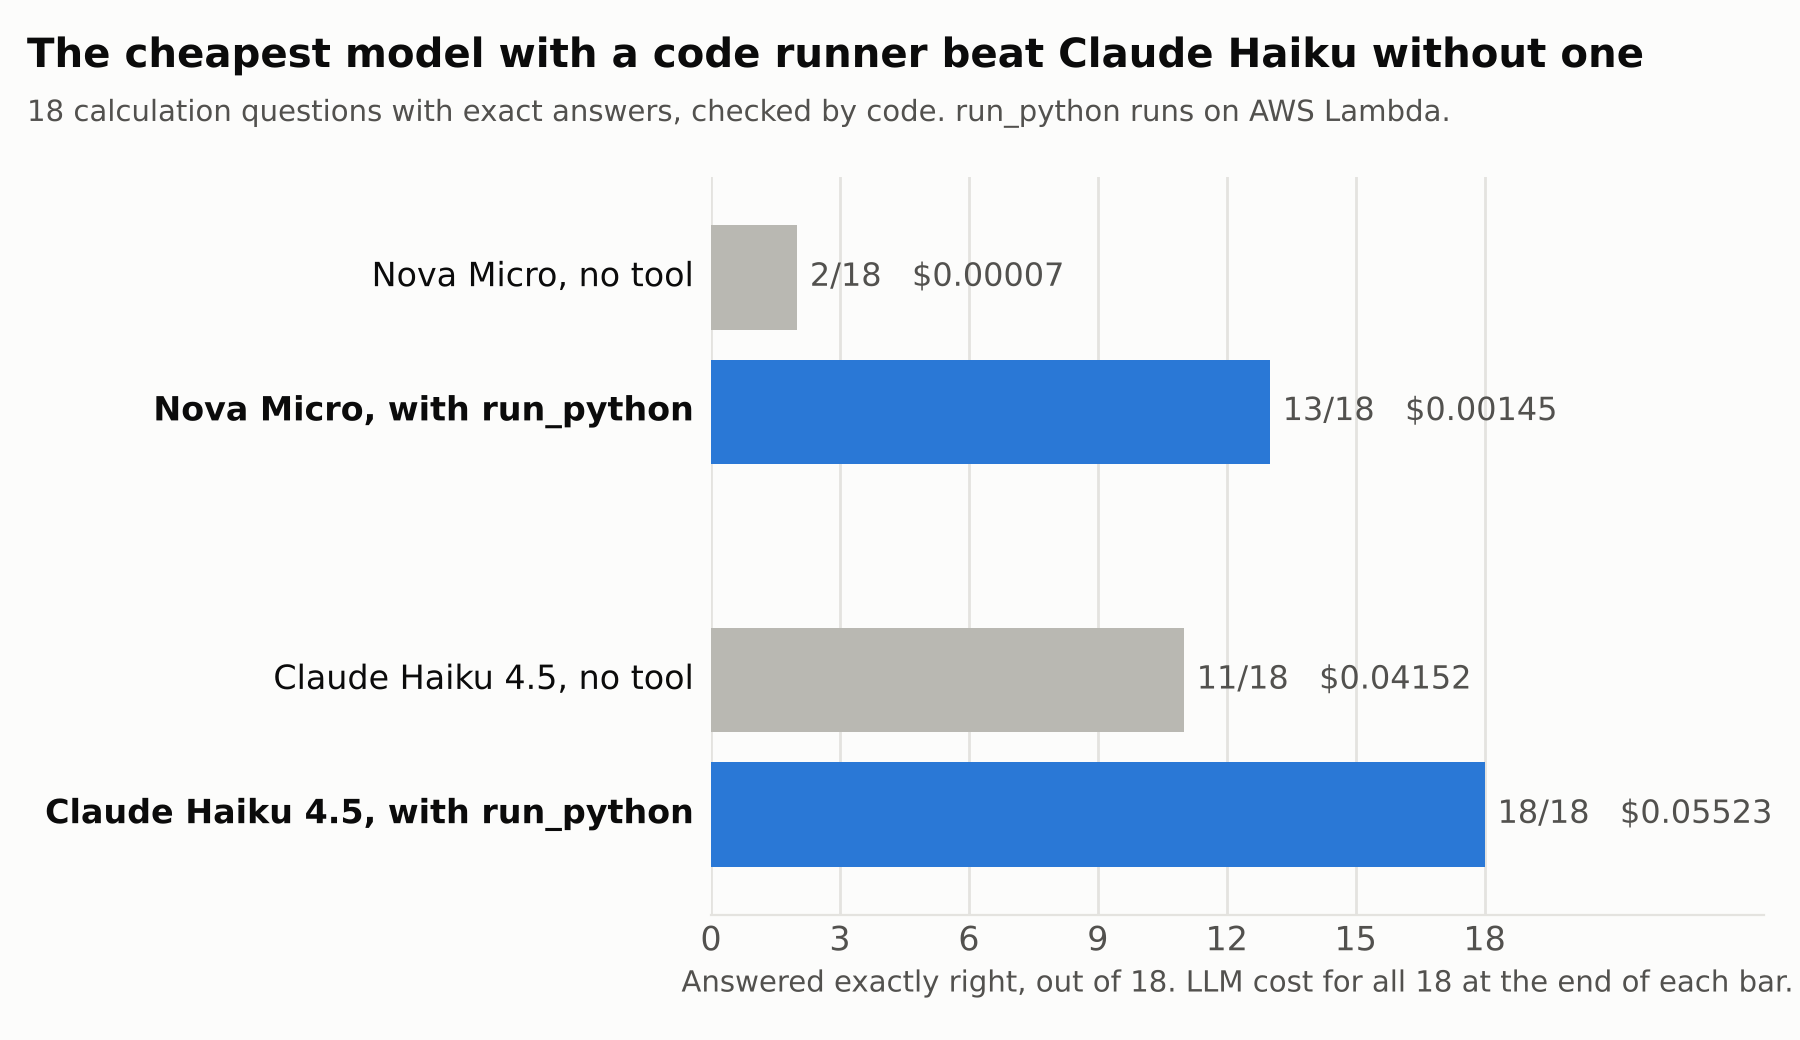
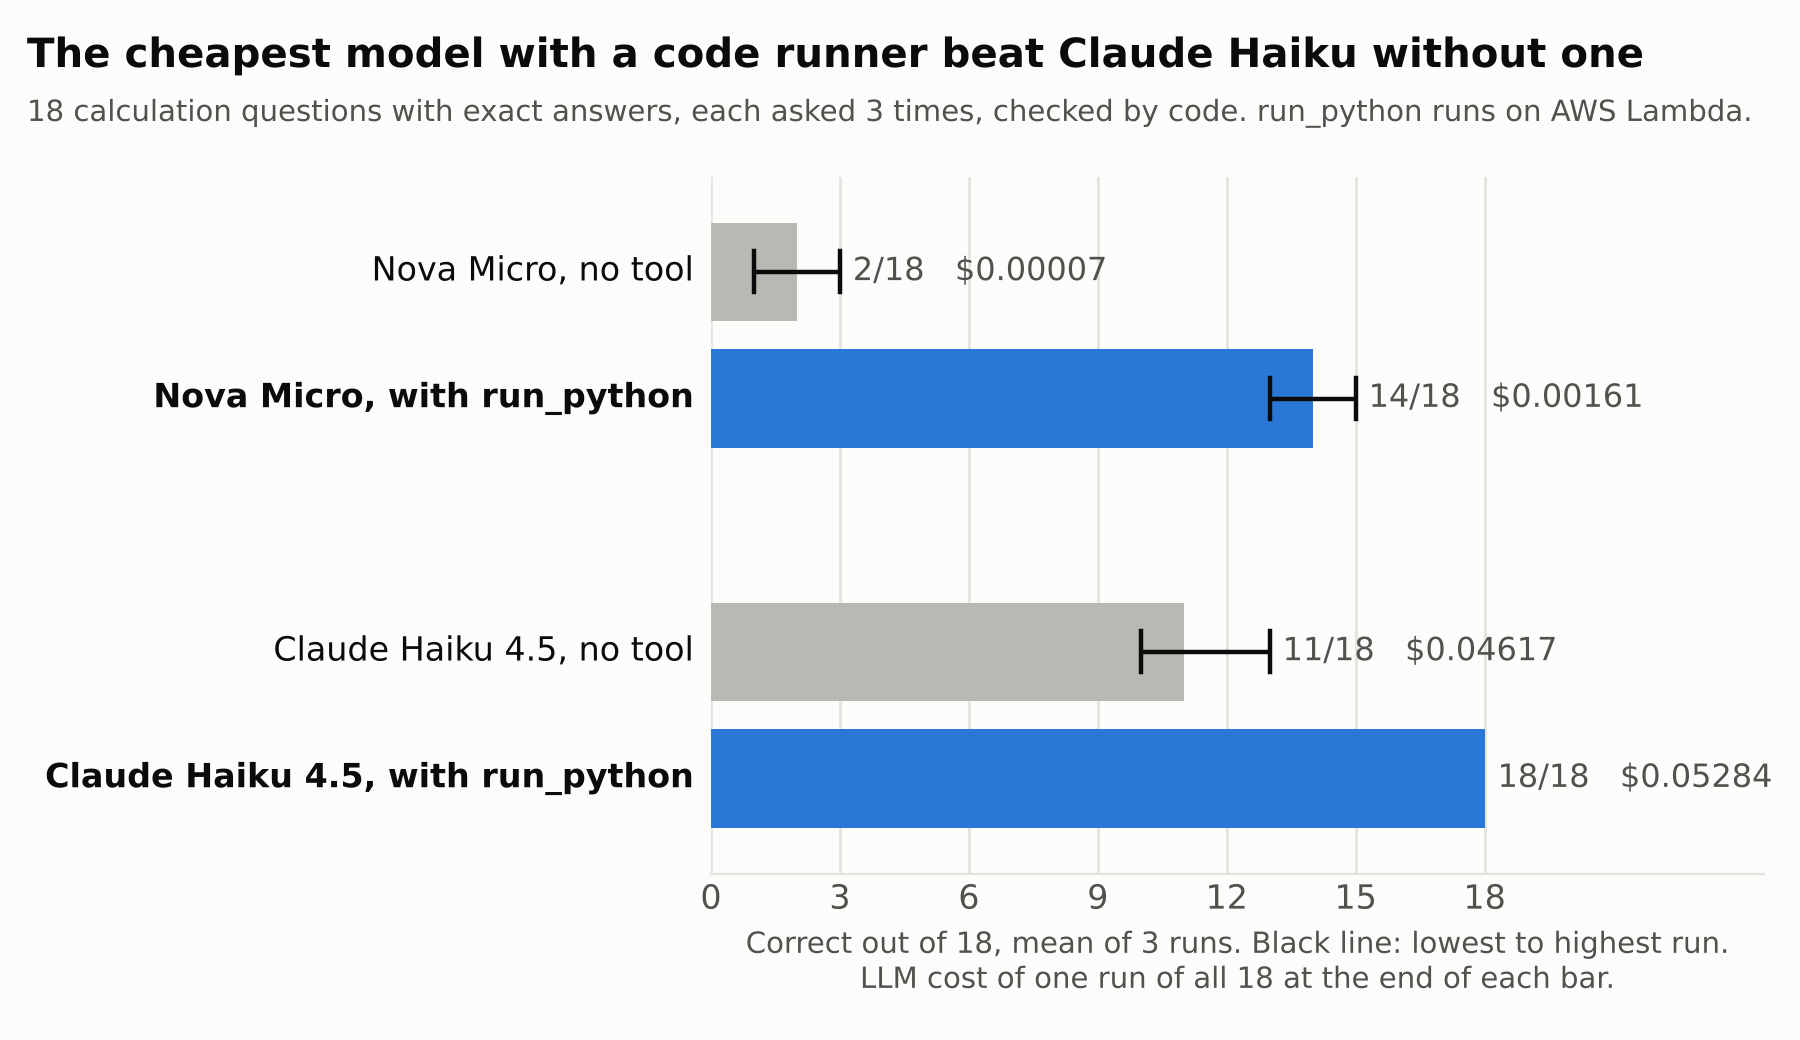
Cap tool calls per answer; README and chart with 3-run and full-agent results

diff --git a/escalator/tools.py b/escalator/tools.py
@@ -12,6 +12,7 @@ from collections.abc import Callable
 from typing import Any
 
 FUNCTION_NAME = os.environ.get("ESCALATOR_RUN_PYTHON_FUNCTION", "escalator-run-python")
+MAX_RUNS = int(os.environ.get("ESCALATOR_MAX_RUNS", "6"))  # tool calls allowed in one answer
 
 TOOL_HINT = (
     "You can run Python with the run_python tool. For any calculation, counting, date "
@@ -71,3 +72,26 @@ def make_run_python(invoke: Invoke = lambda_invoke, log: list | None = None):
         return format_result(result)
 
     return run_python
+
+
+class RunBudget:
+    """A Strands hook provider that caps tool calls in one agent turn.
+
+    Without it, a model stuck in a loop can keep calling the tool (one benchmark answer ran code
+    122 times). After `limit` calls, further calls are cancelled with a message telling the model
+    to answer from what it has.
+    """
+
+    def __init__(self, limit: int = MAX_RUNS):
+        self.limit, self.used = limit, 0
+
+    def register_hooks(self, registry, **kwargs) -> None:
+        from strands.hooks import BeforeToolCallEvent
+
+        registry.add_callback(BeforeToolCallEvent, self.check)
+
+    def check(self, event) -> None:
+        self.used += 1
+        if self.used > self.limit:
+            event.cancel_tool = (f"Limit of {self.limit} code runs reached. Answer now from the outputs "
+                                 "you already have.")

diff --git a/tests/test_tools.py b/tests/test_tools.py
@@ -11,7 +11,7 @@ from run_tool_bench import ANSWER_FORMAT, ESCALATOR, is_correct, parse_answer, s
 
 from escalator.agent import CLARIFY_PROMPT, SYSTEM_PROMPT, Escalator, Reply  # noqa: E402
 from escalator.patterns import AdequacyGate, TierRouter  # noqa: E402
-from escalator.tools import format_result, make_run_python  # noqa: E402
+from escalator.tools import RunBudget, format_result, make_run_python  # noqa: E402
 from test_escalator import FakeDecider  # noqa: E402
 
 # ----------------------------------------------------------------------------- Lambda handler
@@ -151,3 +151,17 @@ def test_answer_format_goes_to_answering_calls_only():
     call("m", SYSTEM_PROMPT, "q")
     call("m", CLARIFY_PROMPT, "q")
     assert seen == [f"{SYSTEM_PROMPT}\n\n{ANSWER_FORMAT}", CLARIFY_PROMPT]
+
+
+def test_run_budget_cancels_tool_calls_past_the_limit():
+    from types import SimpleNamespace
+
+    from strands.hooks import HookProvider
+
+    budget = RunBudget(limit=2)
+    events = [SimpleNamespace(cancel_tool=False) for _ in range(4)]
+    for event in events:
+        budget.check(event)
+    assert [bool(e.cancel_tool) for e in events] == [False, False, True, True]
+    assert "Answer now" in events[-1].cancel_tool
+    assert isinstance(budget, HookProvider)  # Strands accepts it in Agent(hooks=[...])

diff --git a/escalator/agent.py b/escalator/agent.py
@@ -9,7 +9,7 @@ from dataclasses import dataclass, field
 
 from .patterns import ACCEPT, CLARIFY, LARGE, AdequacyGate, TierRouter, Verdict
 from .pricing import cost_usd
-from .tools import TOOL_HINT
+from .tools import TOOL_HINT, RunBudget
 
 SMALL_MODEL = os.environ.get("ESCALATOR_SMALL_MODEL", "us.amazon.nova-micro-v1:0")
 LARGE_MODEL = os.environ.get("ESCALATOR_LARGE_MODEL", "us.anthropic.claude-sonnet-4-5-20250929-v1:0")
@@ -49,7 +49,8 @@ def bedrock_call(model_id: str, system_prompt: str, prompt: str, tools: list | N
     model = BedrockModel(model_id=model_id, region_name=os.environ.get("AWS_REGION", "us-east-1"))
     if tools:
         system_prompt = f"{system_prompt}\n\n{TOOL_HINT}"
-    agent = Agent(model=model, system_prompt=system_prompt, tools=tools or [], callback_handler=None)
+    agent = Agent(model=model, system_prompt=system_prompt, tools=tools or [], callback_handler=None,
+                  hooks=[RunBudget()] if tools else None)
     started = time.perf_counter()
     result = agent(prompt)
     usage = result.metrics.accumulated_usage

diff --git a/README.md b/README.md
@@ -237,35 +237,59 @@ benchmark saves them with each result.
 
 18 questions: finance formulas, big arithmetic, dates, counting, "what does this code print",
 probability and statistics ([`bench/calc_questions.jsonl`](bench/calc_questions.jsonl)). Each
-has an exact answer and a tolerance, so the grading is done by code, with no LLM judge.
+has an exact answer and a tolerance, so the grading is done by code, with no LLM judge. Every
+question was asked 3 times (`--repeat 3`); Correct is the mean, with the lowest and highest run.
 
 ![Correct answers with and without run_python](docs/tool-before-after.png)
 
-| Model | Tool | Correct | LLM cost (all 18) | Median latency | Code runs |
+| Model | Tool | Correct (3 runs) | LLM cost per run of 18 | Median latency | Called the tool |
 | --- | --- | ---: | ---: | ---: | ---: |
-| Amazon Nova Micro | off | 2/18 | $0.00007 | 766 ms | 0 |
-| Amazon Nova Micro | on | **13/18** | $0.00145 | 2093 ms | 21 |
-| Claude Haiku 4.5 | off | 11/18 | $0.04152 | 2364 ms | 0 |
-| Claude Haiku 4.5 | on | **18/18** | $0.05523 | 3164 ms | 19 |
+| Amazon Nova Micro | off | 2.0/18 (1-3) | $0.00007 | 775 ms | |
+| Amazon Nova Micro | on | **14.0/18 (13-15)** | $0.00162 | 2287 ms | 54 of 54 |
+| Claude Haiku 4.5 | off | 11.0/18 (10-13) | $0.04617 | 2518 ms | |
+| Claude Haiku 4.5 | on | **18/18 (18-18)** | $0.05284 | 3034 ms | 54 of 54 |
 
-Nova Micro with the tool got more right than Haiku without it, for about 1/29 of the cost. Without
-the tool, both models make confident mistakes. Haiku gave $177,033.25 for a retirement balance of
-$260,463.33, and both got the 9-digit multiplication wrong. Lambda cost is not in the table; 40
-runs of a few hundred milliseconds each fit in the free tier.
+Nova Micro's worst run with the tool (13) tied Haiku's best run without it, at about 1/29 of the
+cost. Haiku with the tool got every question right in every run, and both models called the tool
+for every question. Without it, both make confident mistakes: Haiku put a $260,463.33 retirement
+balance anywhere from about $181,000 to $243,000, and both got the 9-digit multiplication wrong in all 3
+runs. Lambda cost is not in the table; a few hundred short runs fit in the free tier.
 
-Nova Micro still missed 5 with the tool, and the misses are worth knowing about:
+**The whole agent.** `--models escalator` sends the same questions through Escalator itself: the
+decider routes each one, the chosen model answers (with or without the tool), and the gate checks
+cheap drafts.
 
-- **calc-03**: the program printed 13678.52 and the reply said so, but the final line read
-  `ANSWER: 1367852`. The tool can't fix a formatting slip after the run.
+| Escalator | Correct (3 runs) | LLM cost per run of 18 | Routes over 54 answers |
+| --- | ---: | ---: | --- |
+| no tool | 11.7/18 (11-12) | $0.04391 | 36 straight to Haiku, 18 escalated after a Nova draft |
+| with run_python | **18/18 (18-18)** | $0.07650 | 36 straight to Haiku, 17 escalated, 1 answered by Nova |
+
+Two things this run showed:
+
+- **A runaway loop.** In one answer (calc-14, a Nova draft that was then escalated), the models
+  called the tool 122 times, which cost $0.074 on its own and is most of the difference in cost above. `bedrock_call` now caps tool
+  calls at 6 per answer (`ESCALATOR_MAX_RUNS`) with a Strands `BeforeToolCallEvent` hook
+  ([`RunBudget`](escalator/tools.py)); further calls are cancelled with a message telling the model
+  to answer.
+- **The gate doesn't trust tool results.** It sent 17 of the 18 Nova drafts it saw to Haiku, though
+  Nova with the tool is right about 78% of the time. The 2B gate can't tell that a number came from
+  code that ran. Telling it so is the next step.
+
+Where Nova Micro still goes wrong with the tool (12 misses over 54 answers):
+
+- **calc-03**: in one run the reply said 13678.52, then the final line read `ANSWER: 1367852`.
+  The tool can't fix a formatting slip after the run. Another run gave 13679.20.
 - **calc-05**: answered 1111 where 1111.111 was asked for.
-- **calc-01**: off by 13 cents ($260,463.20).
-- **calc-13**: the program itself was wrong (30 ways to make change instead of 242). Running
-  code only helps if the code is right.
-- **calc-17**: gave 14.7684. The exact answer is 14.7 (6 × the 6th harmonic number), so the
-  program probably estimated it by simulation instead of working it out.
+- **calc-01**: wrong in all 3 runs ($260,463.20, $262,482.70, $380,463), so the formula it wrote
+  varied.
+- **calc-13**: one run wrote the wrong program (67 ways to make change instead of 242).
+- **calc-10**: off by one (76128) in one run.
+- **calc-17**: gave estimates such as 14.802 and 14.6436. The exact answer is 14.7 (6 × the 6th harmonic
+  number), so the program probably simulated it instead of working it out.
 
-Full per-question results are in [`bench/reported/tool-summary.md`](bench/reported/tool-summary.md).
-This is a small set written for this test, so read the numbers as a direction, not a leaderboard.
+Per-question results: [3 runs](bench/reported/tool-repeat3-summary.md) and
+[the first single run](bench/reported/tool-summary.md). This is a small set written for this test,
+so read the numbers as a direction, not a leaderboard.
 
 ## Notebook
 
